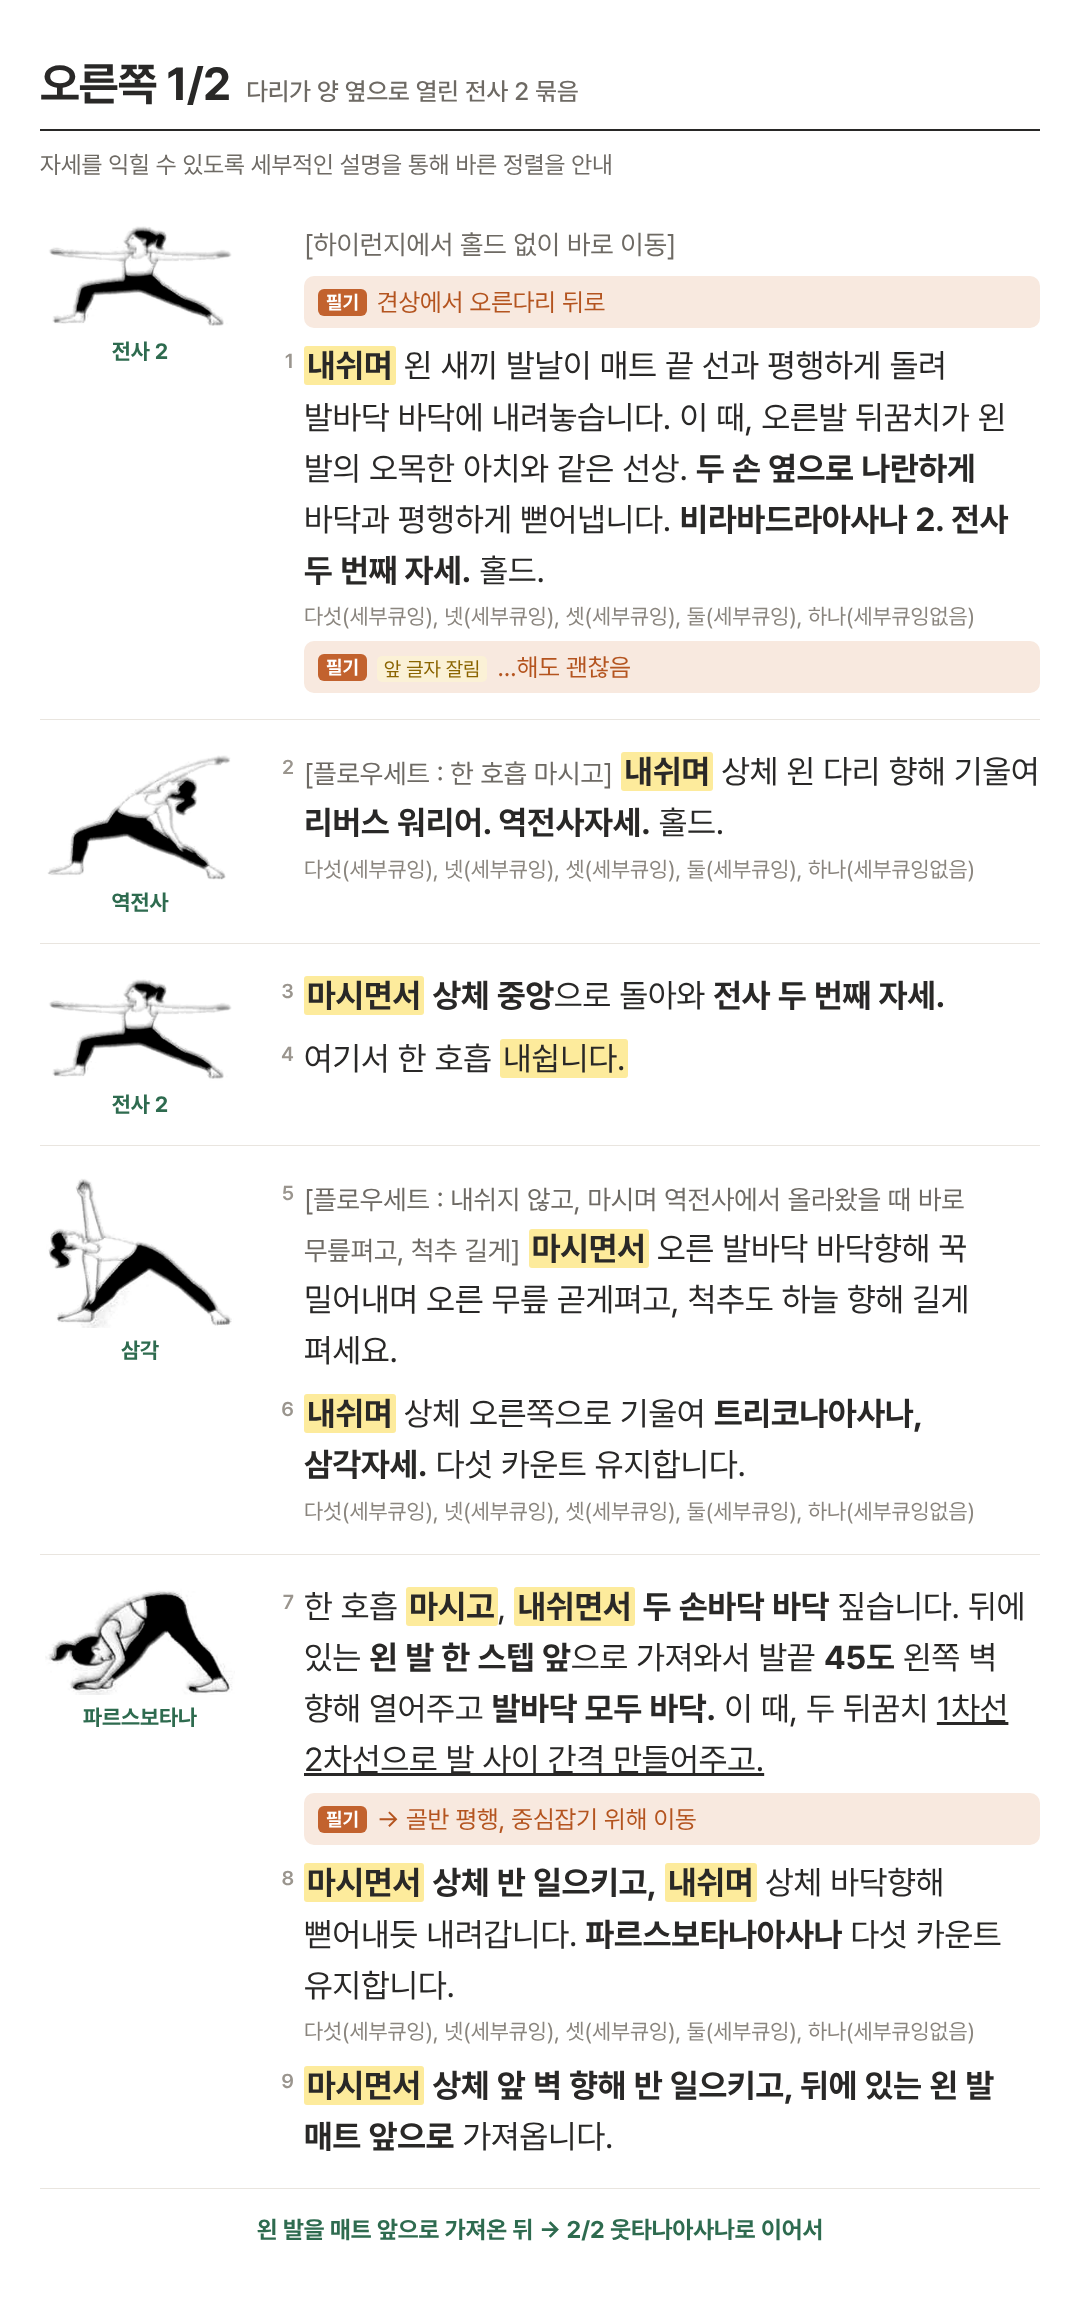
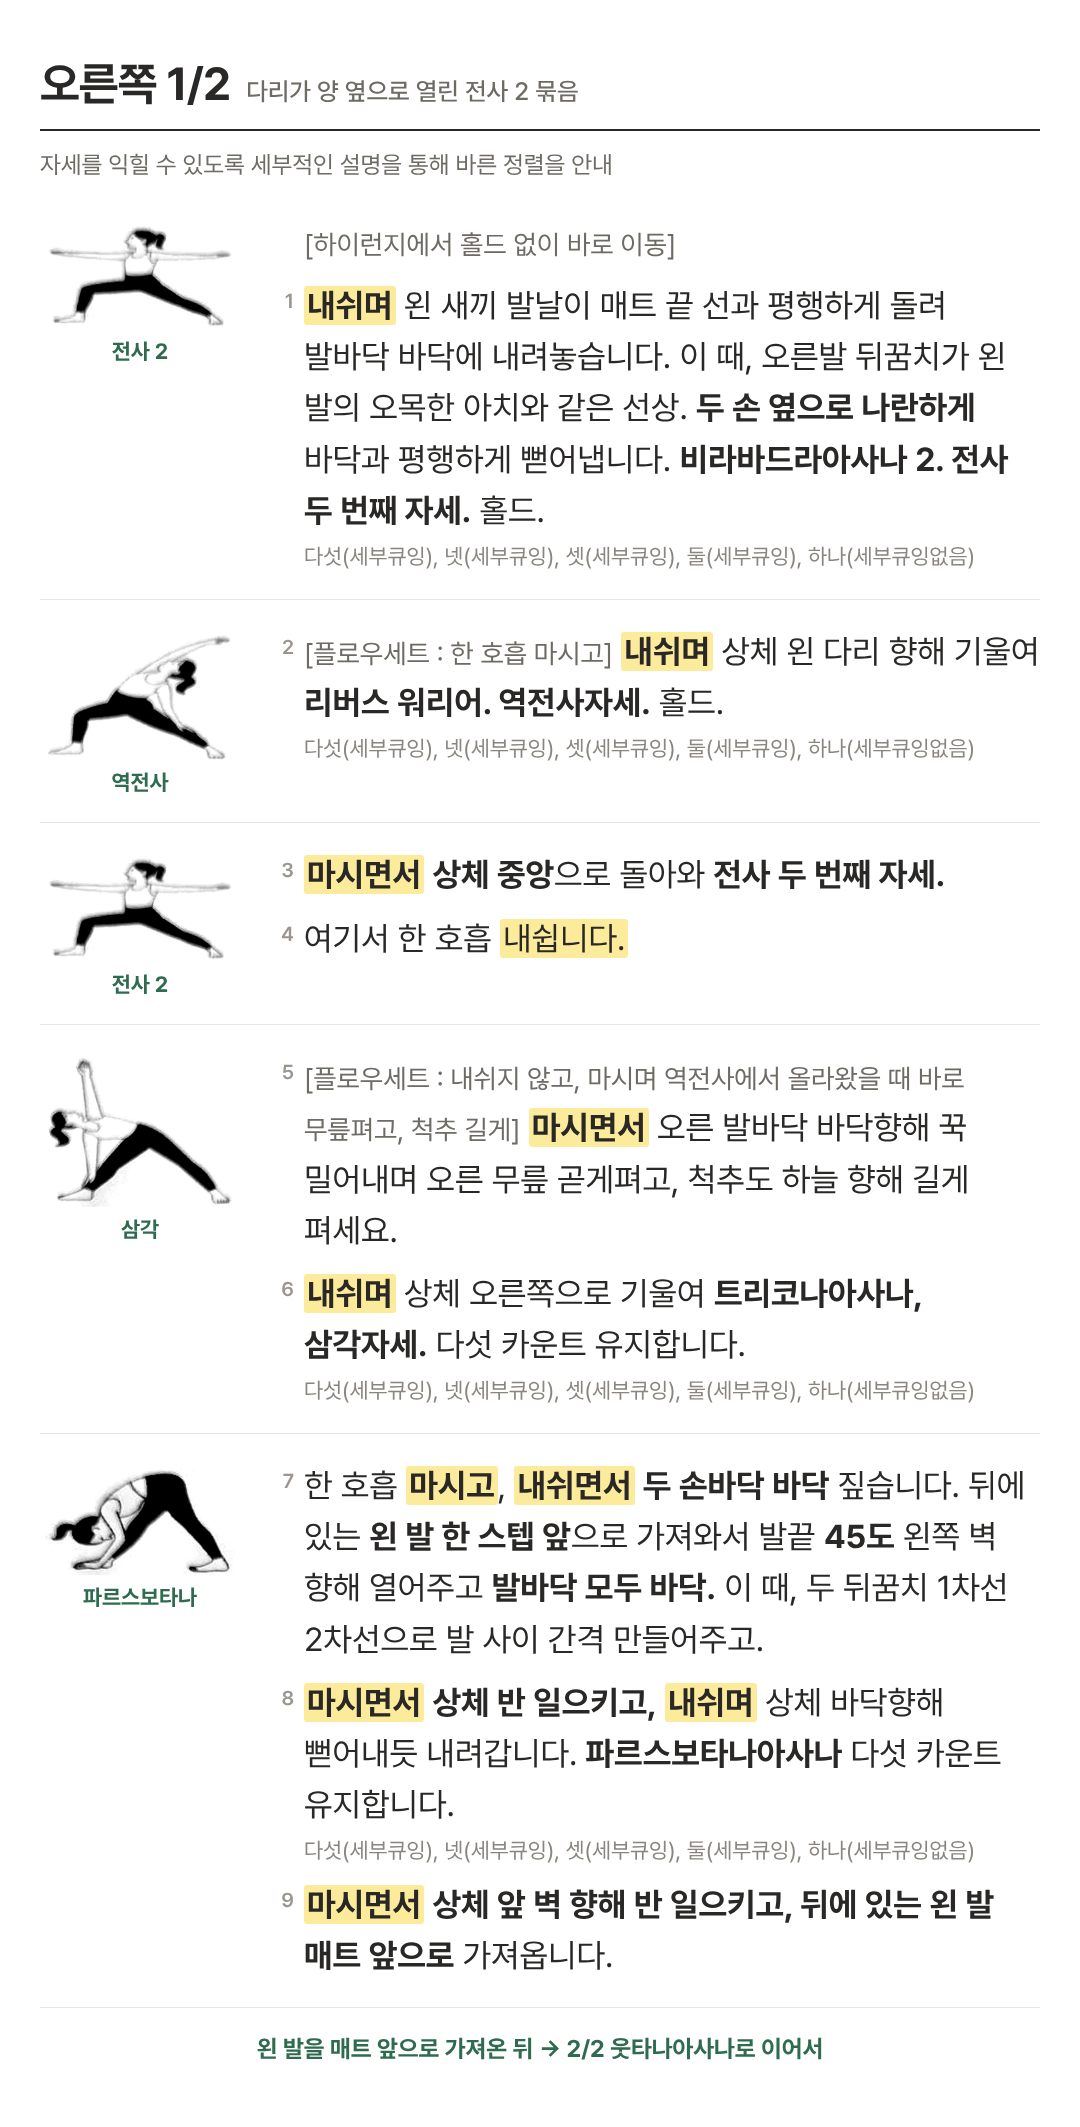
전사 2 묶음 큐잉 이미지에서 필기 제거
Claude-Session: https://claude.ai/code/session_0172gfWm5dYGXWyFmEbbJPsq

diff --git a/index.html b/index.html
@@ -705,7 +705,7 @@ mark.y{background:var(--mark-y)} mark.g{background:var(--mark-g)}
   <div class="hb-cue-grid">
     <figure class="hb-cue">
       <figcaption><b>오른쪽 1/2</b><span>전사 2 ~ 파르스보타나</span><a class="dl" href="img/cue2-right-1.png" download="전사2묶음_큐잉_오른쪽_1.png"><svg viewBox="0 0 16 16" fill="none" stroke="currentColor" stroke-width="1.7" stroke-linecap="round" stroke-linejoin="round" aria-hidden="true"><path d="M8 2.5v8M4.8 7.6 8 10.8l3.2-3.2M3 13.5h10"/></svg>이미지 받기</a></figcaption>
-      <img src="img/cue2-right-1.png" width="1080" height="2308" alt="전사 2 묶음 오른쪽 큐잉 1: 전사 2, 역전사, 삼각, 파르스보타나" data-zoom>
+      <img src="img/cue2-right-1.png" width="1080" height="2127" alt="전사 2 묶음 오른쪽 큐잉 1: 전사 2, 역전사, 삼각, 파르스보타나" data-zoom>
     </figure>
     <figure class="hb-cue">
       <figcaption><b>오른쪽 2/2</b><span>웃타나 ~ 견상</span><a class="dl" href="img/cue2-right-2.png" download="전사2묶음_큐잉_오른쪽_2.png"><svg viewBox="0 0 16 16" fill="none" stroke="currentColor" stroke-width="1.7" stroke-linecap="round" stroke-linejoin="round" aria-hidden="true"><path d="M8 2.5v8M4.8 7.6 8 10.8l3.2-3.2M3 13.5h10"/></svg>이미지 받기</a></figcaption>
